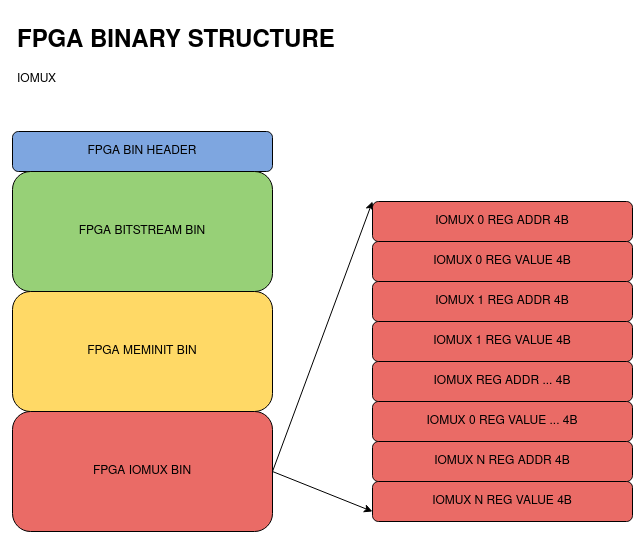
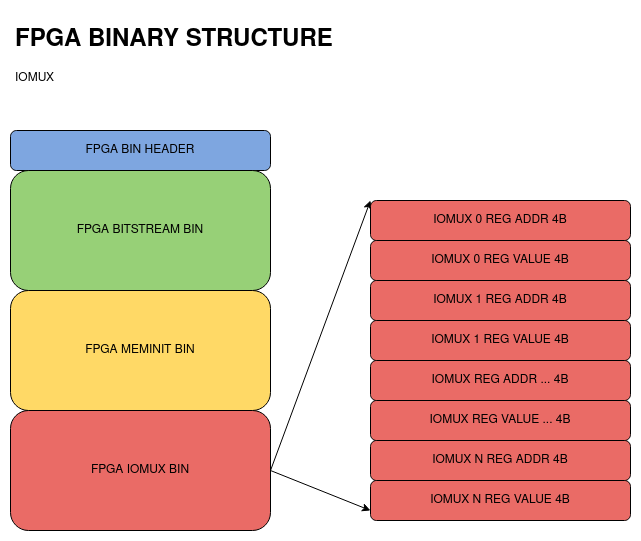
corrections to diagrams/notes

diff --git a/qf_apps/qf_bootloader/flashing-loading-changes.rst b/qf_apps/qf_bootloader/flashing-loading-changes.rst
@@ -7,16 +7,20 @@ Problem
 We need a way to support usage scenarios as below:
 
 1. M4 only
+
    This is currently supported.
    This covers both M4 only usage as well as M4 + FPGA usage where the FPGA code is included inside the M4 binary itself via the header inclusion method.
 
 2. FPGA only
-    A way for the users to flash FPGA image, and which the Bootloader can load without need for a M4 image.
+
+   A way for the users to flash FPGA image, and which the Bootloader can load without need for a M4 image.
 
 3. M4 + (independent)FPGA
+
    A way to flash the M4 image and FPGA image separately, and ability to load the FPGA image (by Bootloader) followed by loading the M4 image.
 
 4. [FUTURE] FFE combinations
+
    A way to flash/load independent combinations of M4+FFE, M4+FFE+FPGA in the future.
 
 Current plan is to add support for use cases 2 and 3, 4 being on the future roadmap.
@@ -25,7 +29,7 @@ Current plan is to add support for use cases 2 and 3, 4 being on the future road
 Solution Design P1 - FPGA bin
 -----------------------------
 
-We need to generate a binary file for the FPGA, which include the below components:
+We need to generate a binary file for the FPGA, which includes the below components:
 
 1. FPGA bitstream (already being generated as ${TOP}.bit)
 2. FPGA meminit (as a separate bin) for FPGA RAM initialization
@@ -46,7 +50,7 @@ The header contains the fields:
 - FPGA BIN VERSION - which will help handle future changes in bin structure if needed. Currently at v0.1.
 - BITSTREAM BIN SIZE, CRC - size in bytes, and crc of the bitstream binary
 - MEMINIT BIN SIZE, CRC - size in bytes, and crc of the meminit binary
-- BITSTREAM BIN SIZE, CRC - size in bytes, and crc of the bitstream binary
+- IOMUX BIN SIZE, CRC - size in bytes, and crc of the iomux binary
 
 FPGA bitstream bin:
 
@@ -86,9 +90,10 @@ The number of pad configurations would be equal to the number of pads used by th
 Implementation Notes P1 - FPGA bin
 ----------------------------------
 
-There a few places we need to change to enable generation of the FPGA bin:
+.. note:: TODO: Add the changes needed in various repos to enable the FPGA bin generation
 
-.. note:: Add the places.
+- meminit (RAM block initialization) will be taken up as a separate task
+- fpga bin with bitstream + dummy-meminit + iomux bin will be the goal for current task.
 
 
 Solution Design P2 - TinyFPGAProgrammer/Bootloader
@@ -101,36 +106,36 @@ The Flash Memory Map changes are covered separately in the `Flash Memory Map<fla
 TinyFPGAProgrammer
 ~~~~~~~~~~~~~~~~~~
 
-- Add support for the `--appfpga` param which will flash the FPGA image into the APPFPGA partition.
+- Add support for the :code:`--appfpga` param which will flash the FPGA image into the APPFPGA partition.
   
   It will also add the required metadata (CRC, SIZE, IMAGE_INFO) in the APPFPGA Metadata section.
 
-- Add support for a new `--mode` param to denote the use case scenario.
+- Add support for a new :code:`--mode` param to denote the use case scenario.
 
   Examples for the use case scenarios:
 
-  1. M4 only - `--mode m4`
-  2. FPGA only - `--mode fpga`
-  3. M4 + (independent)FPGA - `--mode m4-fpga` or `--mode fpga-m4`
-  4. M4 + FFE (future) - `--mode m4-ffe` or `--mode ffe-m4`
-  5. M4 + FPGA + FFE (future) - any order of `m4`, `fpga` and `ffe` in `--mode m4-fpga-ffe`
+  1. M4 only - :code:`--mode m4`
+  2. FPGA only - :code:`--mode fpga`
+  3. M4 + (independent)FPGA - :code:`--mode m4-fpga` or :code:`--mode fpga-m4`
+  4. M4 + FFE (future) - :code:`--mode m4-ffe` or :code:`--mode ffe-m4`
+  5. M4 + FPGA + FFE (future) - any order of :code:`m4`, :code:`fpga` and :code:`ffe` in :code:`--mode m4-fpga-ffe`
 
-  Add logic, which will, depending on the `mode` argument value, will set the `IMAGE ACTIVE FLAG` value of the corresponding flash partition.
+  Add logic, which will, depending on the :code:`mode` argument value, will set the :code:`IMAGE ACTIVE FLAG` value of the corresponding flash partition.
 
-  For example, with `--mode fpga`, the FPGA partition will be marked ACTIVE, and others (M4/FFE/...) will be marked as INACTIVE.
+  For example, with :code:`--mode fpga`, the FPGA partition will be marked ACTIVE, and others (M4/FFE/...) will be marked as INACTIVE.
 
-  Add logic, which can support reading or setting only the `mode` param from flash memory, without needing to actually flash images too.
+  Add logic, which can support reading or setting only the :code:`mode` param from flash memory, without needing to actually flash images too.
 
   For example both of the below usages are ok:
   
-  1. `qfprog --port /dev/ttyACM0 --m4app output/bin/m4app.bin --mode m4` will set the mode as well as flash the image.
-  2. `qfprog --port /dev/ttyACM0 --mode m4` will set the mode only.
+  1. :code:`qfprog --port /dev/ttyACM0 --m4app output/bin/m4app.bin --mode m4` will set the mode as well as flash the image.
+  2. :code:`qfprog --port /dev/ttyACM0 --mode m4` will set the mode only.
 
 
 Bootloader
 ~~~~~~~~~~
 
-As per the Flash Memory Map changes, the booloader will use the `IMAGE ACTIVE FLAG` and decide to load the corresponding images.
+As per the Flash Memory Map changes, the booloader will use the :code:`IMAGE ACTIVE FLAG` and decide to load the corresponding images.
 
 We would use the following order of loading in the general case:
 
